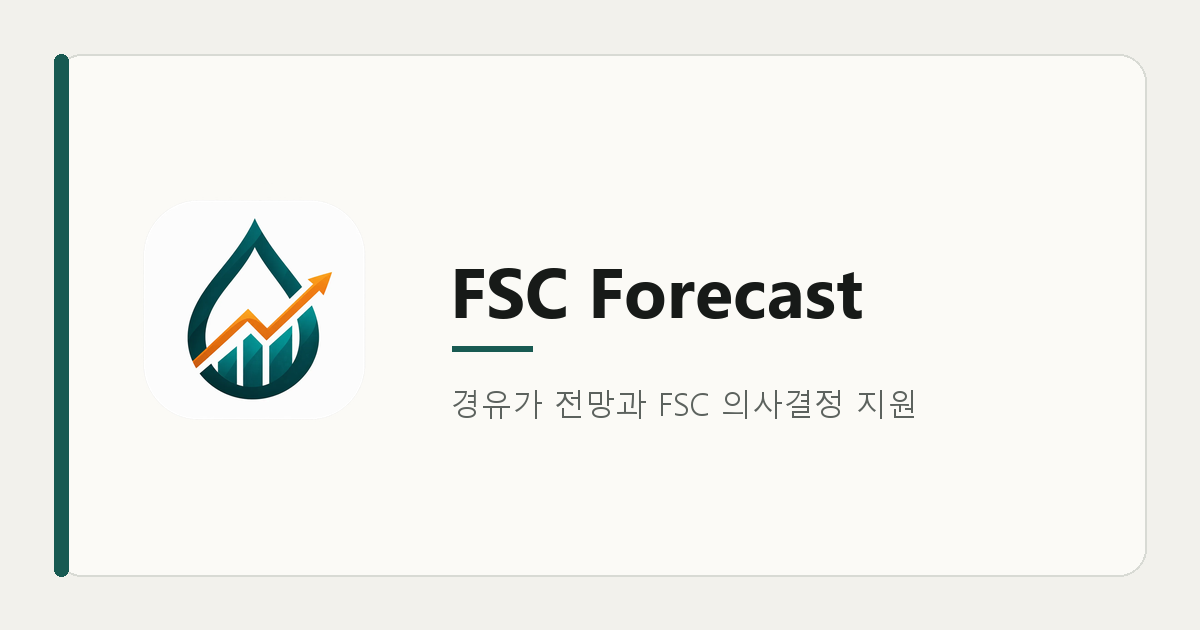
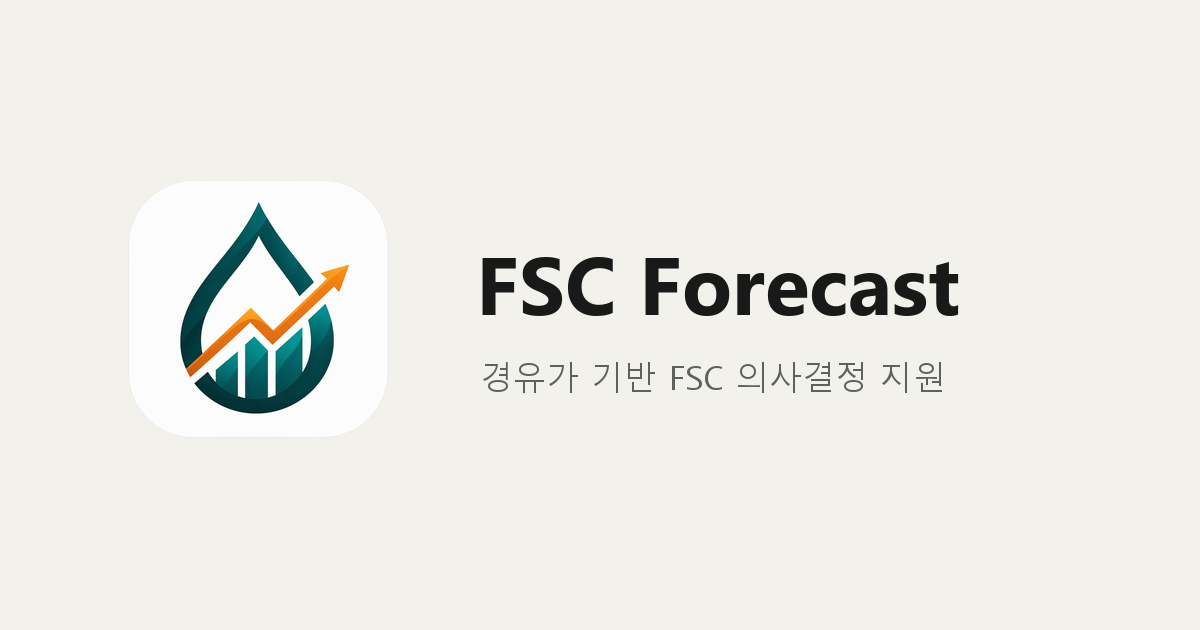
fix: simplify social preview card

diff --git a/app/layout.tsx b/app/layout.tsx
@@ -3,7 +3,7 @@ import Script from 'next/script';
 import './globals.css';
 
 const PRODUCT_NAME = 'FSC Forecast';
-const PRODUCT_MESSAGE = '경유가 전망·FSC 의사결정 지원';
+const PRODUCT_MESSAGE = '경유가 기반 FSC 의사결정 지원';
 const PRODUCT_DESCRIPTION =
   '오피넷 경유가를 기반으로 주간 전망과 분기별 FSC 산정을 지원하는 운영 대시보드입니다.';
 
